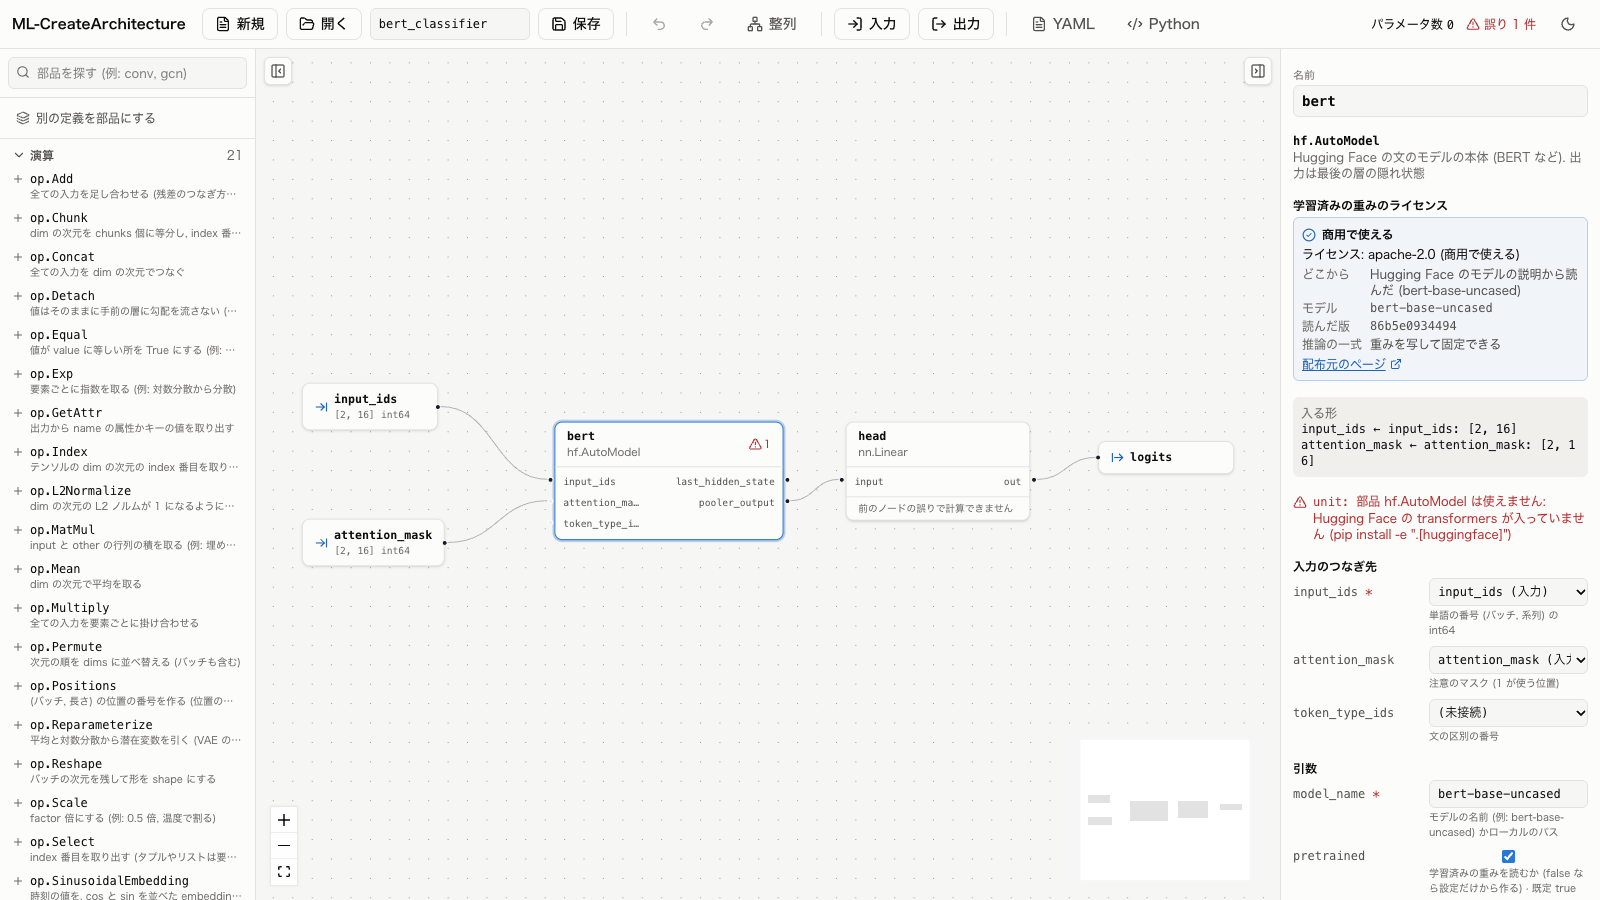
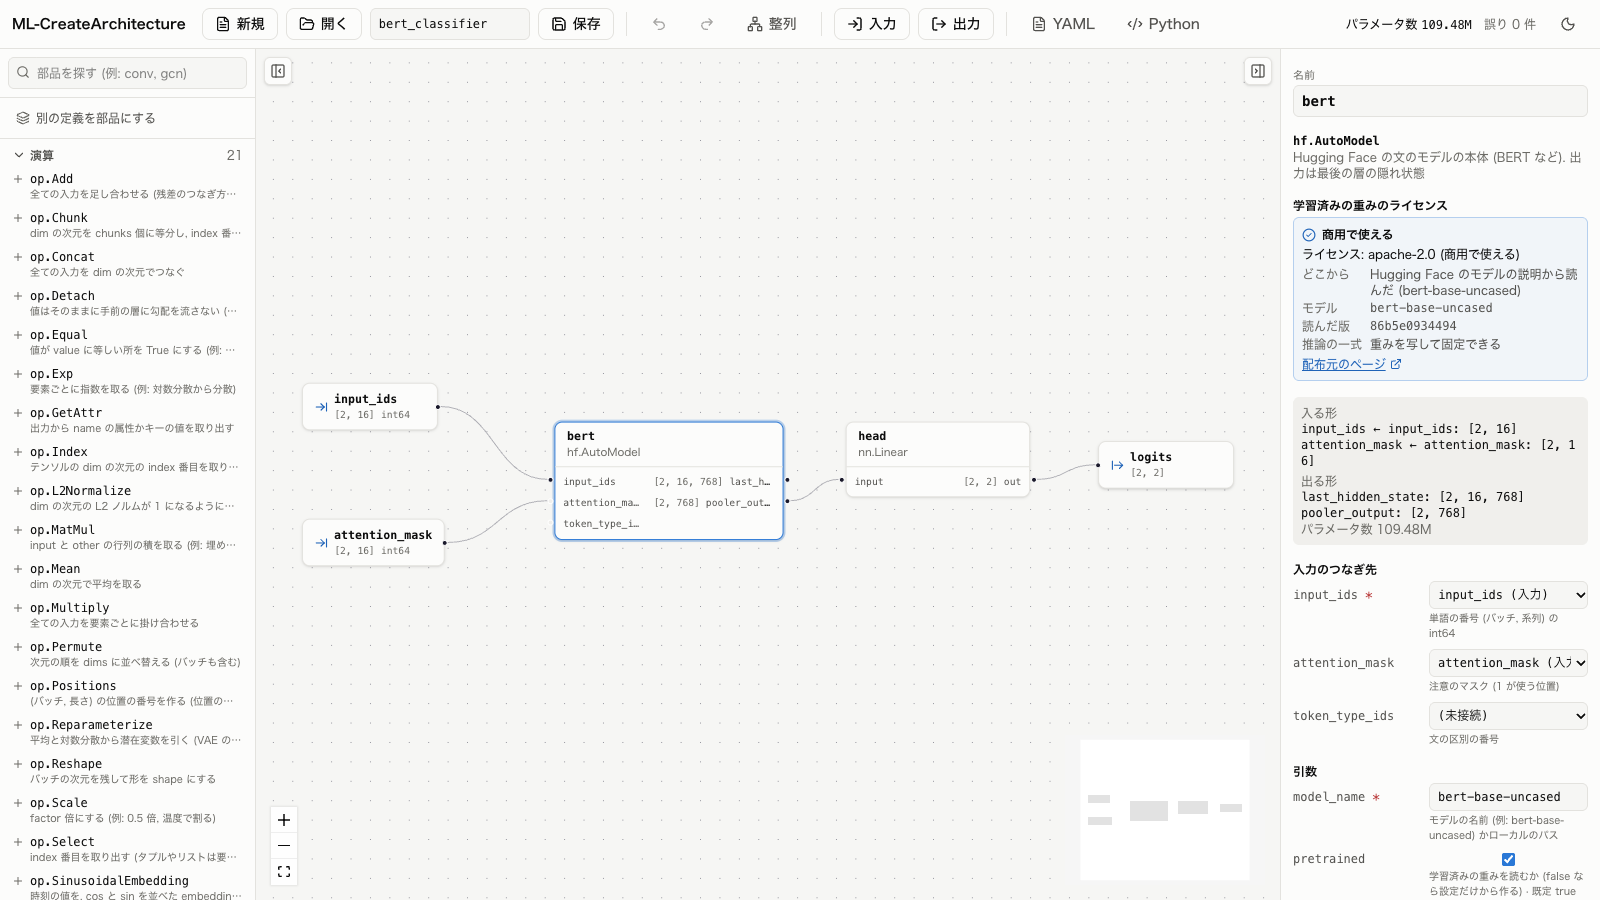
ライセンスの図を誤りの無い画面で撮り直し, 商用で使えない場合の警告の図を足す

diff --git a/README.md b/README.md
@@ -24,14 +24,16 @@
     <td>パラメータの状態. 凍結, 零初期化, 外部の重み (キーの付け替え付き) を書き, 「重みを読んで確かめる」で読めた / 形の違う / 新しい / 使わない重みの数を見る</td>
   </tr>
   <tr>
-    <td colspan="2" align="center"><img src="docs/images/license.png" width="70%" alt="学習済みの重みのライセンス: Hugging Face の BERT のノードで, 配布元から読んだライセンスと商用で使えるかが出る"></td>
+    <td><img src="docs/images/license.png" alt="学習済みの重みのライセンス (商用で使える): Hugging Face の bert-base-uncased のノードで, 配布元から読んだ apache-2.0 と読んだ版が出る"></td>
+    <td><img src="docs/images/license_alert.png" alt="学習済みの重みのライセンス (警告): 同じノードのモデルを cc-by-nc-4.0 のものに替えると, 商用で使えないという警告が出る"></td>
   </tr>
   <tr>
-    <td colspan="2" align="center">学習済みの重みのライセンス. 配布元から読んだライセンス, 商用で使えるか, 読んだ版, 推論の一式に重みを写せるかが出る</td>
+    <td>学習済みの重みのライセンス. 配布元から読んだライセンス, 商用で使えるか, 読んだ版, 推論の一式に重みを写せるかが出る</td>
+    <td>商用で使えないライセンス (ここでは cc-by-nc-4.0) の重みは, 警告の色で出る</td>
   </tr>
 </table>
 
-画面の例は ML-ModelControl に同梱の例 (`vae`, `cnn_classifier`, `bert_classifier`) と, 全結合の層 1 つを置いた定義 (外部の重みは小さな見本のファイル). 外部のライブラリは入れずに (`make setup` のまま) 起動したので, BERT の例は「transformers が入っていません」の誤りも出ている. ライセンスは Hugging Face のモデルの説明から読んだもの.
+画面の例は ML-ModelControl に同梱の例 (`vae`, `cnn_classifier`, `bert_classifier`) と, 全結合の層 1 つを置いた定義 (外部の重みは小さな見本のファイル). ライセンスの 2 枚は `make setup EXTRAS=huggingface` で起動し, `bert_classifier` の `bert` のノードを選んだ所 (警告の方は `model_name` を cc-by-nc-4.0 の公開モデルに替えた所). ライセンスは Hugging Face のモデルの説明から読んだもの. 他の図は外部のライブラリを入れずに (`make setup` のまま) 起動した.
 
 ## できること
 
